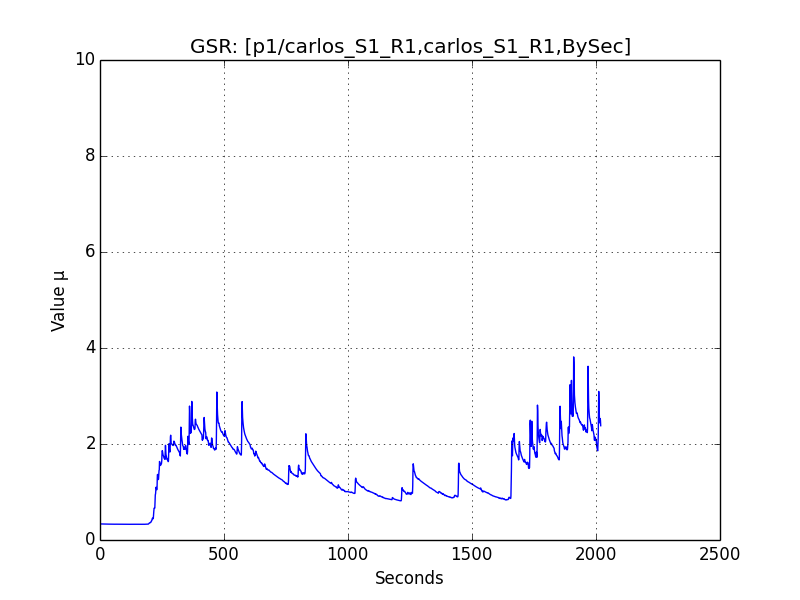
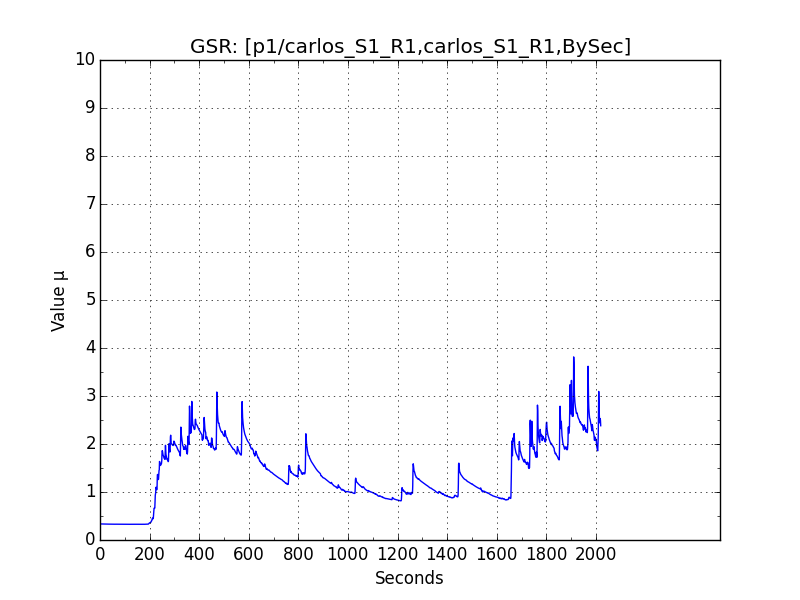
ticks ok

diff --git a/process.py b/process.py
@@ -27,11 +27,11 @@ def plotGSR(subject,test,session,_limx=None,_limy=None,_groupBySec=True):
 	_path_norm = "%s/plots/%s_%s_GSR_normalized" % (subject,subject,test)
 
 	if (s._dataCODIFICATION != None):
-		m = MyPlotter(_title_raw,_dataToPlot,"Seconds","Value "+u,color='blue',limx=_limx,limy=_limy,codification=s._dataCODIFICATION)
+		m = MyPlotter(_title_raw,_dataToPlot,"Seconds","Value "+u,color='blue',limx=_limx,limy=_limy,codification=s._dataCODIFICATION,_xTick=200,_yTick=1)
 	elif(s._dataSOUNDS !=None):
-		m = MyPlotter(_title_raw,_dataToPlot,"Seconds","Value "+u,color='blue',limx=_limx,limy=_limy,sounds=s.toSecSounds())
+		m = MyPlotter(_title_raw,_dataToPlot,"Seconds","Value "+u,color='blue',limx=_limx,limy=_limy,sounds=s.toSecSounds(),_xTick=200,_yTick=1)
 	else:
-		m = MyPlotter(_title_raw,_dataToPlot,"Seconds","Value "+u,color='blue',limx=_limx,limy=_limy)
+		m = MyPlotter(_title_raw,_dataToPlot,"Seconds","Value "+u,color='blue',limx=_limx,limy=_limy,_xTick=200,_yTick=1)
         m.plot(_path_raw)
 def none_to_nan(values):
     """Replace every 0 with 'nan' and return a copy."""
@@ -66,11 +66,11 @@ def plotHR(subject,test,session,_limx=None,_limy=None,_groupBySec=False):
 	_path_norm = "%s/plots/%s_%s_HR_normalized" % (subject,subject,test)
 
 	if (s._dataCODIFICATION != None):
-		m = MyPlotter(_title_raw,_dataToPlot,"Seconds","Value "+u,color='blue',limx=_limx,limy=_limy,codification=s._dataCODIFICATION)
+		m = MyPlotter(_title_raw,_dataToPlot,"Seconds","Value "+u,color='blue',limx=_limx,limy=_limy,codification=s._dataCODIFICATION,_xTick=200,_yTick=20)
 	elif(s._dataSOUNDS !=None):
-		m = MyPlotter(_title_raw,_dataToPlot,"Seconds","Value "+u,color='blue',limx=_limx,limy=_limy,sounds=s.toSecSounds())
+		m = MyPlotter(_title_raw,_dataToPlot,"Seconds","Value "+u,color='blue',limx=_limx,limy=_limy,sounds=s.toSecSounds(),_xTick=200,_yTick=20)
 	else:
-		m = MyPlotter(_title_raw,_dataToPlot,"Seconds","Value "+u,color='blue',limx=_limx,limy=_limy)
+		m = MyPlotter(_title_raw,_dataToPlot,"Seconds","Value "+u,color='blue',limx=_limx,limy=_limy,_xTick=200,_yTick=20)
         m.plot(_path_raw)
 	
 def plotTEMP(subject,test,session,_limx=None,_limy=None,_groupBySec=True):
@@ -120,61 +120,25 @@ def plotHR_ZEPHYR(subject,test,session, sounds = [],_limx=None,_limy=None,groupB
 	#_path_norm = "%s/plots/%s_%s_HR_normalized" % (subject,subject,test)
 	if (s._dataSOUNDS != None):
 		if(groupBySec):
-			m = MyPlotter(_title_raw,_dataAvgBySec,"Seconds","Value (BPM) ",limx=_limx,limy=_limy,sounds=s.toSecSounds())
+			m = MyPlotter(_title_raw,_dataAvgBySec,"Seconds","Value (BPM) ",limx=_limx,limy=_limy,sounds=s.toSecSounds(),_xTick=200,_yTick=20)
 		else:
-			m = MyPlotter(_title_raw,_data_to_norm,"Seconds","Value (BPM) ",limx=_limx,limy=_limy,sounds=s.toSecSounds())
+			m = MyPlotter(_title_raw,_data_to_norm,"Seconds","Value (BPM) ",limx=_limx,limy=_limy,sounds=s.toSecSounds(),_xTick=200,_yTick=20)
 	elif (s._dataCODIFICATION != None):
 		if(groupBySec):
-			m = MyPlotter(_title_raw,_dataAvgBySec,"Seconds","Value (BPM) ",limx=_limx,limy=_limy,codification=s._dataCODIFICATION)
+			m = MyPlotter(_title_raw,_dataAvgBySec,"Seconds","Value (BPM) ",limx=_limx,limy=_limy,codification=s._dataCODIFICATION,_xTick=200,_yTick=20)
 		else:
-			m = MyPlotter(_title_raw,_data_to_norm,"Seconds","Value (BPM) ",limx=_limx,limy=_limy,codification=s._dataCODIFICATION)
+			m = MyPlotter(_title_raw,_data_to_norm,"Seconds","Value (BPM) ",limx=_limx,limy=_limy,codification=s._dataCODIFICATION,_xTick=200,_yTick=20)
 
 	else:
 		if(groupBySec):
-			m = MyPlotter(_title_raw,_dataAvgBySec,"Seconds","Value (BPM) ",limx=_limx,limy=_limy)
+			m = MyPlotter(_title_raw,_dataAvgBySec,"Seconds","Value (BPM) ",limx=_limx,limy=_limy,_xTick=200,_yTick=20)
 		else:
-			m = MyPlotter(_title_raw,_data_to_norm,"Seconds","Value (BPM) ",limx=_limx,limy=_limy)
+			m = MyPlotter(_title_raw,_data_to_norm,"Seconds","Value (BPM) ",limx=_limx,limy=_limy,_xTick=200,_yTick=20)
 		
         m.plot(_path_raw)
 	
 	#m = MyPlotter(_title_norm,_data_normalized,"Seconds","Value (C)",[50,100])
         #m.plot(_path_norm)  not norm by now
-def plotIBI_ZEPHYR(subject,test,session, sounds = [],_limx=None,_limy=None,groupBySec=True):
-        s = session
-	_data_to_norm = []
-	min_max_scaler = preprocessing.MinMaxScaler()
-	for _x in s._dataZEPHYR_IBI:
-		_data_to_norm.append(_x[1])
-
-	_dataAvgBySec = s.groupBySec(s._dataZEPHYR_IBI,False,True)
-	#_data_normalized = min_max_scaler.fit_transform(_data_to_norm)
-        _title_raw = "IBI: [%s,%s,raw]" % (subject,test)
-	#_title_norm = "HR: [%s,%s,normalized]" % (subject,test)
-
-	_path_raw = "%s/plots/%s_%s_IBI_raw" % (subject,subject,test)
-	#_path_norm = "%s/plots/%s_%s_HR_normalized" % (subject,subject,test)
-	if (s._dataSOUNDS != None):
-		if(groupBySec):
-			m = MyPlotter(_title_raw,_dataAvgBySec,"Seconds","Value (seconds) ",limx=_limx,limy=_limy,sounds=s.toSecSounds())
-		else:
-			m = MyPlotter(_title_raw,_data_to_norm,"Seconds","Value (seconds) ",limx=_limx,limy=_limy,sounds=s.toSecSounds())
-	elif (s._dataCODIFICATION != None):
-		if(groupBySec):
-			m = MyPlotter(_title_raw,_dataAvgBySec,"Seconds","Value (seconds) ",limx=_limx,limy=_limy,codification=s._dataCODIFICATION)
-		else:
-			m = MyPlotter(_title_raw,_data_to_norm,"Seconds","Value (seconds) ",limx=_limx,limy=_limy,codification=s._dataCODIFICATION)
-
-	else:
-		if(groupBySec):
-			m = MyPlotter(_title_raw,_dataAvgBySec,"Seconds","Value (seconds) ",limx=_limx,limy=_limy)
-		else:
-			m = MyPlotter(_title_raw,_data_to_norm,"Seconds","Value (seconds)",limx=_limx,limy=_limy)
-	
-        m.plot(_path_raw)
-	
-	#m = MyPlotter(_title_norm,_data_normalized,"Seconds","Value (C)",[50,100])
-        #m.plot(_path_norm)  not norm by now
-
 def plotEEG1(subject,test,session,_limx=None,_limy=None,_groupBySec=True):
 	u = u'\u00B5'
         s = session
@@ -336,18 +300,16 @@ def generateAlbumScript(subjects):
 if (__name__ == "__main__"):
         	s = session("p1/carlos_S1_R1/1433807211979/")
 		plotGSR("p1/carlos_S1_R1","carlos_S1_R1",s,_limy=[0.0,10.0])
-		plotHR_ZEPHYR("p1/carlos_S1_R1","carlos_hr",s,_limy=[0,120],_limx=[0.0,2000])
-		plotIBI_ZEPHYR("p1/carlos_S1_R1","carlos_ibi",s,_limy=[0,1],_limx=[0.0,2000])
+		plotHR_ZEPHYR("p1/carlos_S1_R1","carlos_hr",s,_limy=[0,120])
                 _data = s.groupBySec(s._dataGSR,True,False)
                 htr = HalfRecoveryTimeDetector(_data)
-                #for _x in range(0,len(_data),600):
-                #    htr = HalfRecoveryTimeDetector(_data[_x:_x+600])
-		htr.plot("carlos_T1")
+                for _x in range(0,len(_data),600):
+                    htr = HalfRecoveryTimeDetector(_data[_x:_x+600])
+		    htr.plot("carlos_T1_min_%i" %(_x))
 
         	s = session("p2/eduardo/1433809471952/")
 		plotGSR("p2/eduardo","eduardo",s,_limy=[0.0,10.0])
 		plotHR_ZEPHYR("p2/eduardo","eduardo_HR",s,_limy=[0.0,120])
-		plotIBI_ZEPHYR("p2/eduardo","eduardo_IBI",s,_limy=[0,1.5])
 		_data = s.groupBySec(s._dataGSR,True,False)
 		htr = HalfRecoveryTimeDetector(_data)
 		htr.plot("eduardo_T1")
@@ -355,17 +317,13 @@ if (__name__ == "__main__"):
                 ######p3 and p4###################
         	s = session("p3/karime_T1/1433892485204/")
 		plotGSR("p3/karime_T1","karime_T1",s,_limy=[0.0,10.0])
-		plotHR_ZEPHYR("p3/karime_T1","karime_T1",s,_limy=[0,120])
-		plotIBI_ZEPHYR("p3/karime_T1","karime_T1",s,_limy=[0,1.5])
+		plotHR_ZEPHYR("p3/karime_T1","",s,_limy=[0,120])
                 _data = s.groupBySec(s._dataGSR,True,False)
                 htr = HalfRecoveryTimeDetector(_data)
-
-                #print htr.toCSV()
+                print htr.toCSV()
                 s = session("p4/celia_rest/1433894624813/")
-                _data = s.groupBySec(s._dataGSR,True,False)
-                htr = HalfRecoveryTimeDetector(_data[290:])
-		htr.plot("p4/celia_rest/plots/p4/celia_hrt")
 		plotGSR("p4/celia_rest","celia_rest",s,_limy=[0.0,10.0])
-		plotHR_ZEPHYR("p4/celia_rest","celia",s,_limy=[0,120],_limx=[290,2300])
-		plotIBI_ZEPHYR("p4/celia_rest","celia",s,_limy=[0,1.5],_limx=[290,2300])
+		plotHR_ZEPHYR("p3/karime_T1","",s,_limy=[0,120])
+                _data = s.groupBySec(s._dataGSR,True,False)
+                htr = HalfRecoveryTimeDetector(_data)
                 print htr.toCSV()

diff --git a/MyPlotter.py b/MyPlotter.py
@@ -2,7 +2,7 @@ import pylab as plt
 import numpy as np
 
 class MyPlotter:
-        def __init__(self,title,data,labelX,labelY,limx=None,limy=None,color='red',sounds = None,codification = None,linestyle="solid",_plotEach = None):
+        def __init__(self,title,data,labelX,labelY,limx=None,limy=None,color='red',sounds = None,codification = None,linestyle="solid",_plotEach = None,_xTick=None,_yTick=None):
                 self.data = data
                 self.title = title
 		self.labelX = labelX
@@ -14,6 +14,8 @@ class MyPlotter:
 		self.codification = codification 
 		self.linestyle = linestyle
 		self.plotEach = _plotEach
+                self._xTick = _xTick
+                self._yTick = _yTick
         def plot(self,outputFigure):
                 #init the plot
                 fig, ax = plt.subplots()
@@ -24,11 +26,18 @@ class MyPlotter:
                 ax.set_xlabel(self.labelX)
                 ax.set_ylabel(self.labelY)
                 ax.set_title(self.title)
+                if (self._xTick != None and self._yTick != None):
+                    # major ticks every 200, minor ticks every 100
+                    major_ticks = np.arange(0, len(self.data), self._xTick)
+                    minor_ticks = np.arange(0, len(self.data), self._xTick/2.0)
 
-
-		#for _i,_d in enumerate(self.sounds):
-		#	if (_d != None):
-		#		ax.fill_between([_i], 0, _d,color="green")
+                    major_ticks_y = np.arange(0, len(self.data), self._yTick)
+                    minor_ticks_y = np.arange(0, max(self.data), self._yTick/2.0)
+                    ax.set_xticks(major_ticks)
+                    ax.set_xticks(minor_ticks, minor=True)          
+                    ax.set_yticks(major_ticks_y)                
+                    ax.set_yticks(minor_ticks_y, minor=True)                 
+          
 
 
 		if (self.codification != None):

diff --git a/HalfRecoveryTimeDetector.py b/HalfRecoveryTimeDetector.py
@@ -89,6 +89,24 @@ class HalfRecoveryTimeDetector:
 		ax.set_ylabel("uS")
                 ax.set_xlabel("Seconds")
                 ax.set_title("Peak and Half Time Recovery detection")
+                # major ticks every 200, minor ticks every 100
+                major_ticks = np.arange(0, len(self._data), 200)                                              
+                minor_ticks = np.arange(0, len(self._data), 100)     
+
+                major_ticks_y = np.arange(0, len(self._data), 1)                                              
+                minor_ticks_y = np.arange(0, len(self._data), 0.5)     
+                ax.set_xticks(major_ticks)                                                       
+                ax.set_xticks(minor_ticks, minor=True)                                           
+                ax.set_yticks(major_ticks_y)                                                       
+                ax.set_yticks(minor_ticks_y, minor=True)                                           
+
+                # and a corresponding grid                                                       
+                
+                ax.grid(which='both')                                                            
+
+                # or if you want differnet settings for the grids:                               
+                ax.grid(which='minor', alpha=0.2)                                                
+                ax.grid(which='major', alpha=0.5)    
                 plt.ylim([0,6])
 		for _p in self._peaks:
 			#overplot rising point and peak
